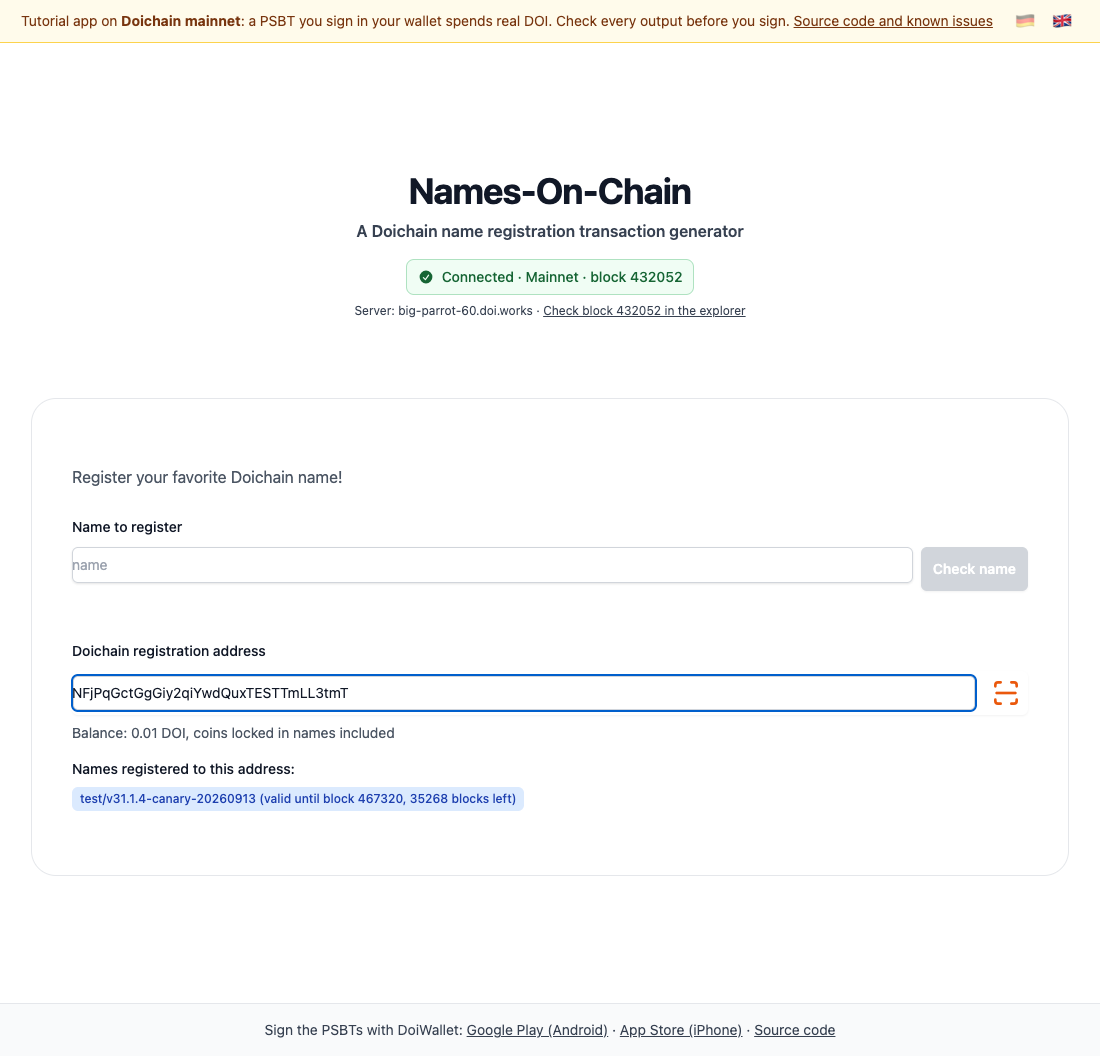
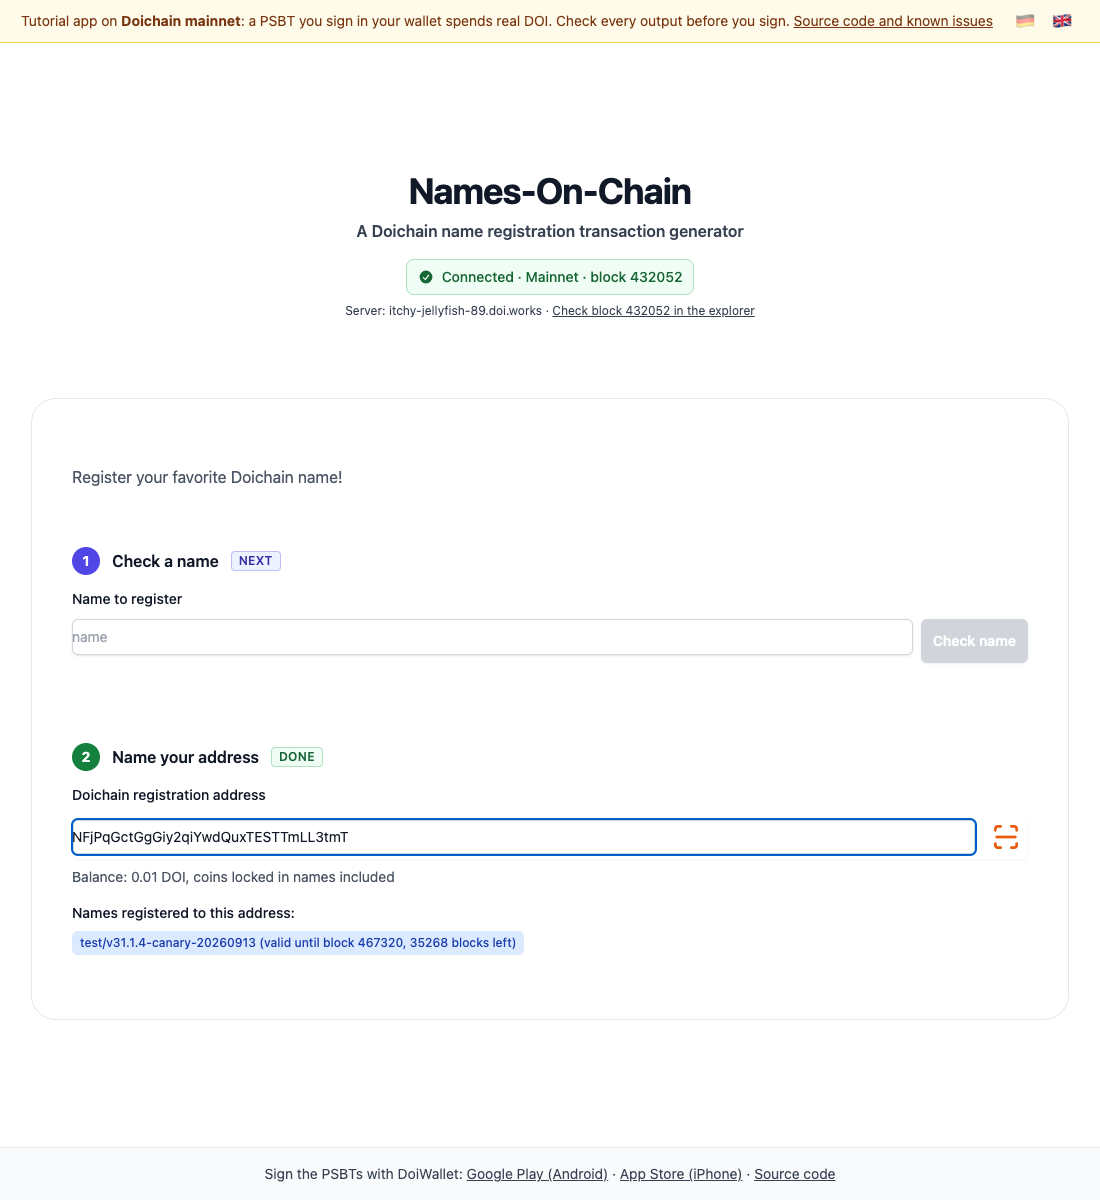
feat: step 2 is the address

diff --git a/src/lib/components/pricing.svelte b/src/lib/components/pricing.svelte
@@ -94,6 +94,15 @@
 	/** The first step is answered once the name in the field has an answer */
 	$: nameStep = name && name === checkedName ? 'done' : 'next';
 
+	/** The second step is answered by an address the app could read from the chain */
+	$: addressStep = !isAddressValid
+		? nameStep === 'done'
+			? 'next'
+			: 'later'
+		: addressError
+			? 'next'
+			: 'done';
+
 	/**
 	 * Takes the answer to a check and puts it on screen, if it still belongs to
 	 * the name in the field
@@ -252,126 +261,129 @@
 					</p>
 				{/if}
 				<!-- nothing to look up before a server on the valid chain answers -->
-				<fieldset disabled={!isConnected} class="min-w-0">
-					<label for="address" class="block text-sm font-medium leading-6 text-gray-900"
-						>{$_('address.label')}</label
-					>
-					<div class="relative mt-2 rounded-md shadow-sm flex items-center">
-						<input
-							bind:value={doichainAddress}
-							type="text"
-							name="address"
-							id="address"
-							autocomplete="off"
-							autocapitalize="off"
-							spellcheck="false"
-							class={!addressLooksWrong
-								? 'block w-full rounded-md border-0 py-1.5 text-gray-900 shadow-sm ring-1 ring-inset ring-gray-300 placeholder:text-gray-400 focus:ring-2 focus:ring-inset sm:text-sm sm:leading-6'
-								: 'block w-full rounded-md border-0 py-1.5 pr-10 text-red-900 ring-1 ring-inset ring-red-300 placeholder:text-red-300 focus:ring-2 focus:ring-inset focus:ring-red-500 sm:text-sm sm:leading-6'}
-							placeholder={$_('address.placeholder')}
-							aria-invalid={addressLooksWrong}
-							aria-describedby="address-status"
-						/>
-						{#if addressLooksWrong}
-							<div class="pointer-events-none absolute inset-y-0 right-0 flex items-center pr-3">
-								<svg
-									class="h-5 w-5 text-red-600"
-									viewBox="0 0 20 20"
-									fill="currentColor"
-									aria-hidden="true"
-								>
-									<path
-										fill-rule="evenodd"
-										d="M18 10a8 8 0 11-16 0 8 8 0 0116 0zm-8-5a.75.75 0 01.75.75v4.5a.75.75 0 01-1.5 0v-4.5A.75.75 0 0110 5zm0 10a1 1 0 100-2 1 1 0 000 2z"
-										clip-rule="evenodd"
-									/>
-								</svg>
-							</div>
-						{/if}
-						<button
-							type="button"
-							aria-label={$_('address.scan')}
-							title={$_('address.scan')}
-							on:click={() => {
-								$scanOpen = true;
-							}}
-							class="ml-2 inline-flex h-11 w-11 flex-none items-center justify-center rounded-md focus-visible:outline focus-visible:outline-2 focus-visible:outline-offset-2 focus-visible:outline-orange-600 disabled:opacity-50"
-							><svg
-								class="h-8 w-8 text-orange-600"
-								width="24"
-								height="24"
-								viewBox="0 0 24 24"
-								stroke-width="2"
-								stroke="currentColor"
-								fill="none"
-								stroke-linecap="round"
-								stroke-linejoin="round"
-							>
-								<path stroke="none" d="M0 0h24v24H0z" /> <path d="M4 7v-1a2 2 0 0 1 2 -2h2" />
-								<path d="M4 17v1a2 2 0 0 0 2 2h2" /> <path d="M16 4h2a2 2 0 0 1 2 2v1" />
-								<path d="M16 20h2a2 2 0 0 0 2 -2v-1" /> <line x1="5" y1="12" x2="19" y2="12" /></svg
-							></button
+				<Step number={2} title={$_('steps.address')} state={addressStep}>
+					<fieldset disabled={!isConnected} class="min-w-0">
+						<label for="address" class="block text-sm font-medium leading-6 text-gray-900"
+							>{$_('address.label')}</label
 						>
-					</div>
-
-					<div id="address-status" class="min-h-12" aria-live="polite">
-						{#if doichainAddress && !isAddressValid}
-							<p class="mt-2 text-sm text-red-600">{$_('address.errors.invalid')}</p>
-						{:else if addressError}
-							<p class="mt-2 text-sm text-red-600">
-								{$_('address.errors.lookupFailed', { values: addressError })}
-							</p>
-						{:else if !isUTXOAddressValid}
-							<p class="mt-2 text-sm text-red-600">
-								<b>{$_('address.total', { values: { amount: sb.toBitcoin(totalUtxoValue) } })}</b>
-								{utxoErrorMessage}
-							</p>
-						{:else}
-							<p class="mt-2 text-sm text-gray-600">
-								{$_('address.total', { values: { amount: sb.toBitcoin(totalUtxoValue) } })}
-							</p>
-							{#if nameOpTxs.length > 0}
-								<div class="mt-4">
-									<h4 class="text-sm font-medium text-gray-900 mb-2">{$_('address.names')}</h4>
-									<div class="flex flex-wrap gap-2">
-										{#each nameOpTxs as nameOp}
-											{@const expiry = nameExpiry(
-												nameOp.height,
-												$electrumBlockchainBlockHeadersSubscribe?.height,
-												$network
-											)}
-											<span
-												class="inline-flex items-center px-2 py-1 rounded-md text-xs font-medium {expiry.expired
-													? 'bg-gray-100 text-gray-700'
-													: 'bg-blue-100 text-blue-800'}"
-											>
-												{#if !expiry.confirmed}
-													{$_('address.namePending', { values: { name: nameOp.name } })}
-												{:else if expiry.expired}
-													{$_('address.nameExpired', {
-														values: { name: nameOp.name, height: expiry.expiresAt }
-													})}
-												{:else if expiry.blocksLeft !== undefined}
-													{$_('address.nameValidUntil', {
-														values: {
-															name: nameOp.name,
-															height: expiry.expiresAt,
-															blocksLeft: expiry.blocksLeft
-														}
-													})}
-												{:else}
-													{$_('address.expires', {
-														values: { name: nameOp.name, height: expiry.expiresAt }
-													})}
-												{/if}
-											</span>
-										{/each}
-									</div>
+						<div class="relative mt-2 rounded-md shadow-sm flex items-center">
+							<input
+								bind:value={doichainAddress}
+								type="text"
+								name="address"
+								id="address"
+								autocomplete="off"
+								autocapitalize="off"
+								spellcheck="false"
+								class={!addressLooksWrong
+									? 'block w-full rounded-md border-0 py-1.5 text-gray-900 shadow-sm ring-1 ring-inset ring-gray-300 placeholder:text-gray-400 focus:ring-2 focus:ring-inset sm:text-sm sm:leading-6'
+									: 'block w-full rounded-md border-0 py-1.5 pr-10 text-red-900 ring-1 ring-inset ring-red-300 placeholder:text-red-300 focus:ring-2 focus:ring-inset focus:ring-red-500 sm:text-sm sm:leading-6'}
+								placeholder={$_('address.placeholder')}
+								aria-invalid={addressLooksWrong}
+								aria-describedby="address-status"
+							/>
+							{#if addressLooksWrong}
+								<div class="pointer-events-none absolute inset-y-0 right-0 flex items-center pr-3">
+									<svg
+										class="h-5 w-5 text-red-600"
+										viewBox="0 0 20 20"
+										fill="currentColor"
+										aria-hidden="true"
+									>
+										<path
+											fill-rule="evenodd"
+											d="M18 10a8 8 0 11-16 0 8 8 0 0116 0zm-8-5a.75.75 0 01.75.75v4.5a.75.75 0 01-1.5 0v-4.5A.75.75 0 0110 5zm0 10a1 1 0 100-2 1 1 0 000 2z"
+											clip-rule="evenodd"
+										/>
+									</svg>
 								</div>
 							{/if}
-						{/if}
-					</div>
-				</fieldset>
+							<button
+								type="button"
+								aria-label={$_('address.scan')}
+								title={$_('address.scan')}
+								on:click={() => {
+									$scanOpen = true;
+								}}
+								class="ml-2 inline-flex h-11 w-11 flex-none items-center justify-center rounded-md focus-visible:outline focus-visible:outline-2 focus-visible:outline-offset-2 focus-visible:outline-orange-600 disabled:opacity-50"
+								><svg
+									class="h-8 w-8 text-orange-600"
+									width="24"
+									height="24"
+									viewBox="0 0 24 24"
+									stroke-width="2"
+									stroke="currentColor"
+									fill="none"
+									stroke-linecap="round"
+									stroke-linejoin="round"
+								>
+									<path stroke="none" d="M0 0h24v24H0z" /> <path d="M4 7v-1a2 2 0 0 1 2 -2h2" />
+									<path d="M4 17v1a2 2 0 0 0 2 2h2" /> <path d="M16 4h2a2 2 0 0 1 2 2v1" />
+									<path d="M16 20h2a2 2 0 0 0 2 -2v-1" />
+									<line x1="5" y1="12" x2="19" y2="12" /></svg
+								></button
+							>
+						</div>
+
+						<div id="address-status" class="min-h-12" aria-live="polite">
+							{#if doichainAddress && !isAddressValid}
+								<p class="mt-2 text-sm text-red-600">{$_('address.errors.invalid')}</p>
+							{:else if addressError}
+								<p class="mt-2 text-sm text-red-600">
+									{$_('address.errors.lookupFailed', { values: addressError })}
+								</p>
+							{:else if !isUTXOAddressValid}
+								<p class="mt-2 text-sm text-red-600">
+									<b>{$_('address.total', { values: { amount: sb.toBitcoin(totalUtxoValue) } })}</b>
+									{utxoErrorMessage}
+								</p>
+							{:else}
+								<p class="mt-2 text-sm text-gray-600">
+									{$_('address.total', { values: { amount: sb.toBitcoin(totalUtxoValue) } })}
+								</p>
+								{#if nameOpTxs.length > 0}
+									<div class="mt-4">
+										<h4 class="text-sm font-medium text-gray-900 mb-2">{$_('address.names')}</h4>
+										<div class="flex flex-wrap gap-2">
+											{#each nameOpTxs as nameOp}
+												{@const expiry = nameExpiry(
+													nameOp.height,
+													$electrumBlockchainBlockHeadersSubscribe?.height,
+													$network
+												)}
+												<span
+													class="inline-flex items-center px-2 py-1 rounded-md text-xs font-medium {expiry.expired
+														? 'bg-gray-100 text-gray-700'
+														: 'bg-blue-100 text-blue-800'}"
+												>
+													{#if !expiry.confirmed}
+														{$_('address.namePending', { values: { name: nameOp.name } })}
+													{:else if expiry.expired}
+														{$_('address.nameExpired', {
+															values: { name: nameOp.name, height: expiry.expiresAt }
+														})}
+													{:else if expiry.blocksLeft !== undefined}
+														{$_('address.nameValidUntil', {
+															values: {
+																name: nameOp.name,
+																height: expiry.expiresAt,
+																blocksLeft: expiry.blocksLeft
+															}
+														})}
+													{:else}
+														{$_('address.expires', {
+															values: { name: nameOp.name, height: expiry.expiresAt }
+														})}
+													{/if}
+												</span>
+											{/each}
+										</div>
+									</div>
+								{/if}
+							{/if}
+						</div>
+					</fieldset>
+				</Step>
 				<p>&nbsp;</p>
 			</div>
 		</div>
